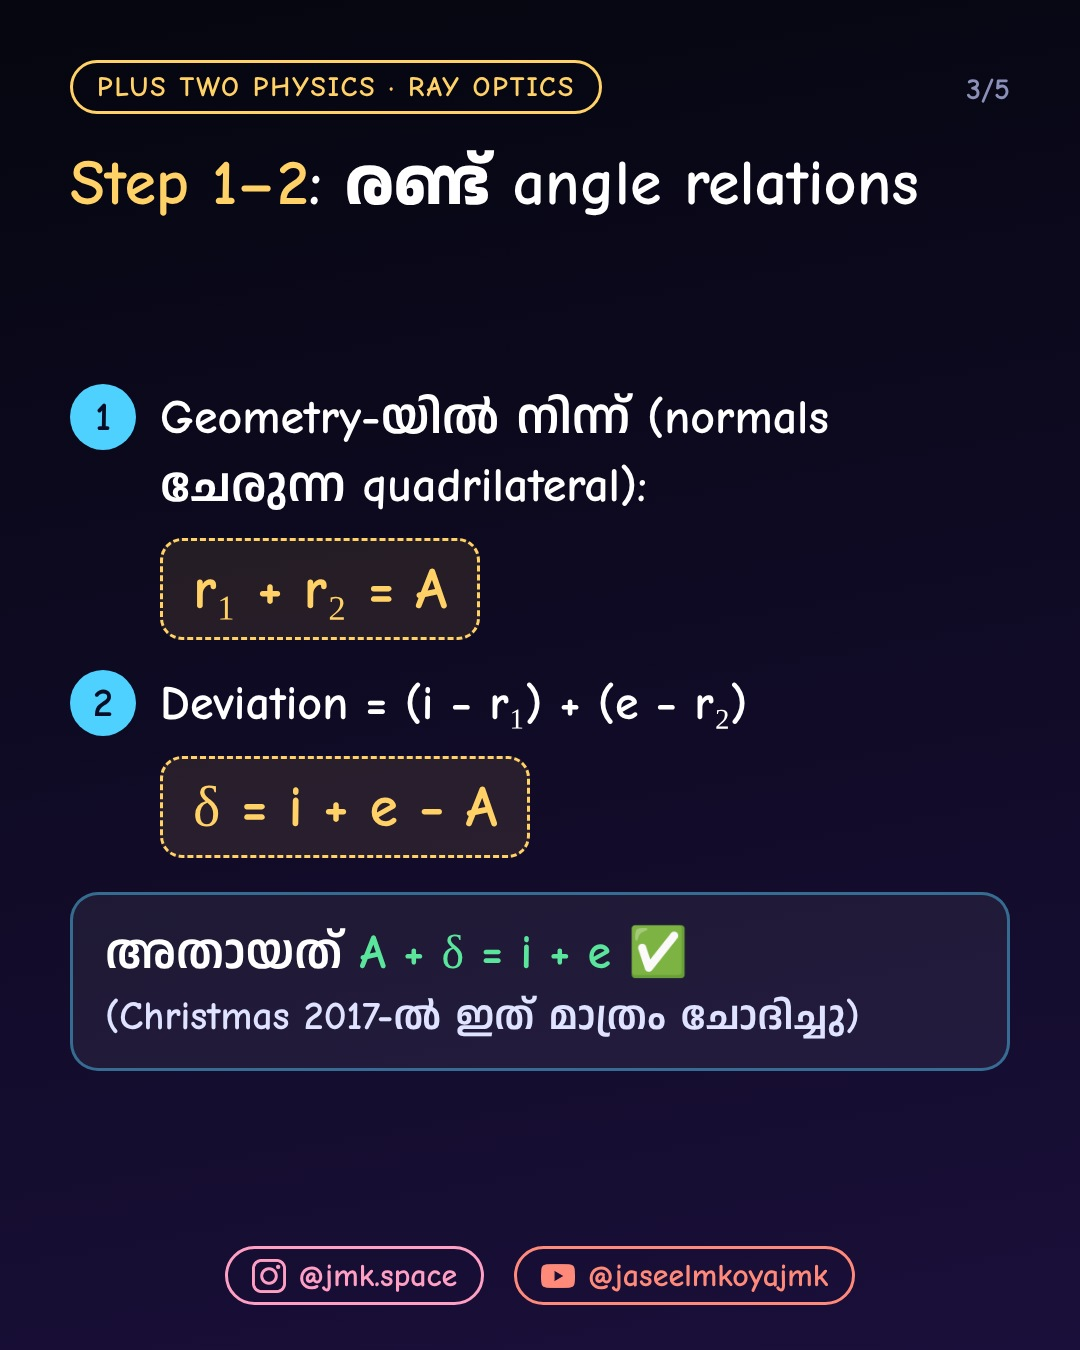
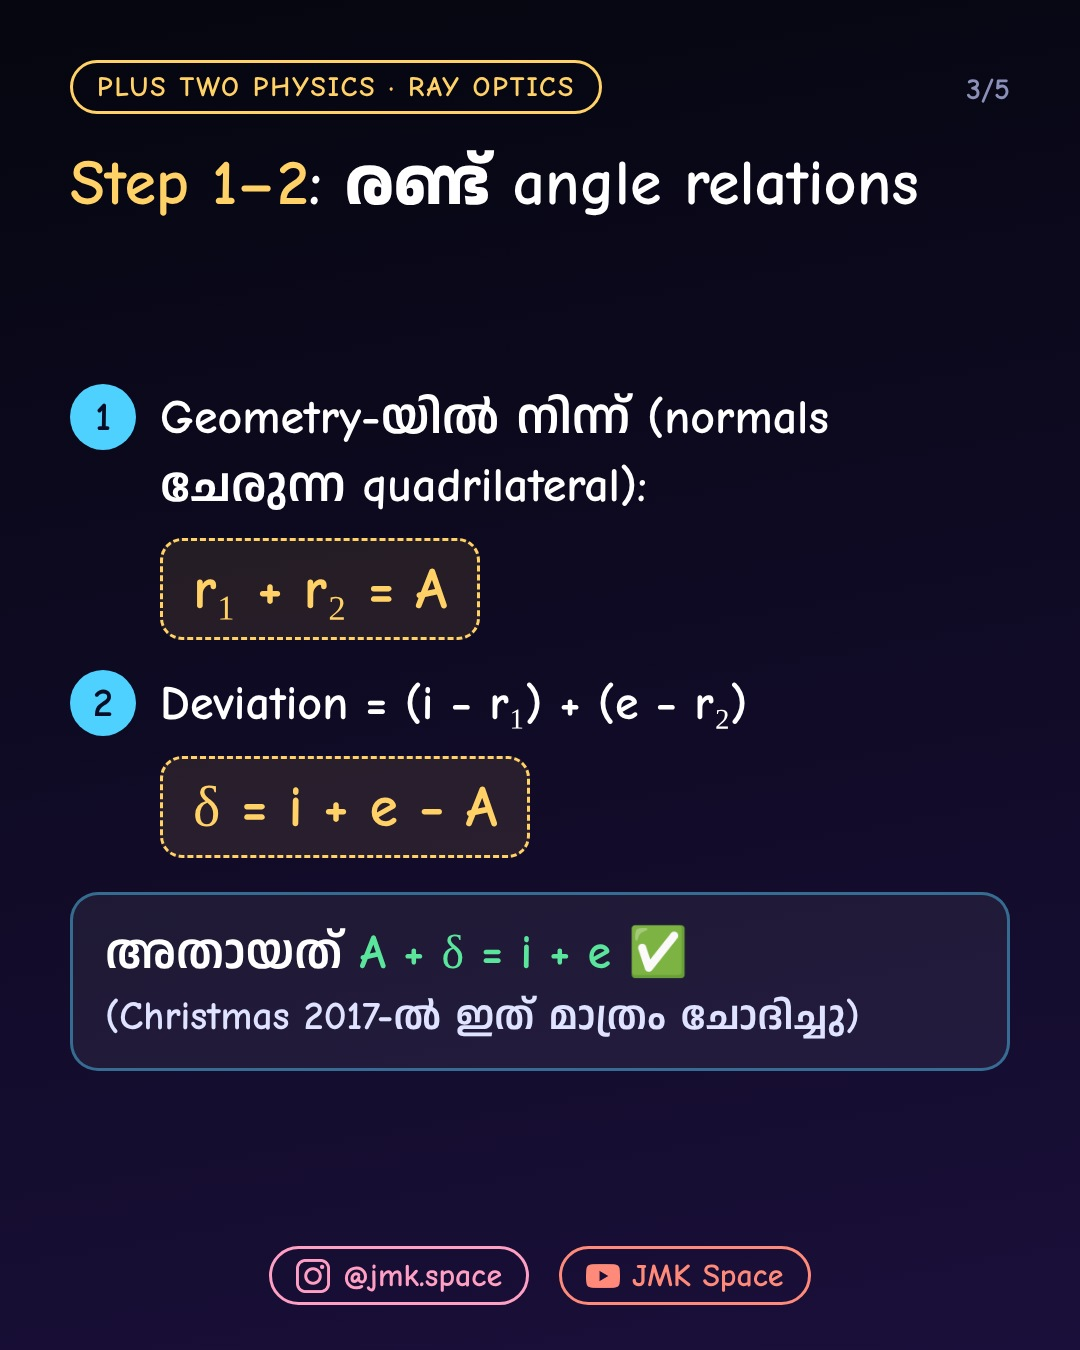
25 Nov post: JMK Space footer, rescheduled

Changed region(s): [[0.2139, 0.9022, 0.7944, 0.9644]]

diff --git a/work/posts/2026-11-25/build.py b/work/posts/2026-11-25/build.py
@@ -34,7 +34,7 @@ h2{font-family:Comic,AnekX;font-size:64px;line-height:1.3;margin-top:28px}
 .ig{color:#ff9fc4}.yt{color:#ff8a7a}
 """
 FOOT = """<div class="brand"><span class="ig"><i class="ico" style="-webkit-mask-image:url(icons/instagram-white.png)"></i>@jmk.space</span>
-<span class="yt"><i class="ico" style="-webkit-mask-image:url(icons/youtube-white.png)"></i>@jaseelmkoyajmk</span></div>"""
+<span class="yt"><i class="ico" style="-webkit-mask-image:url(icons/youtube-white.png)"></i>JMK Space</span></div>"""
 
 TAG = '<div class="tag">PLUS TWO PHYSICS · RAY OPTICS</div>'
 PYQ = '<div class="pyq">PYQ · Plus Two Christmas Exam 2019 · Q24 (4 marks)</div>'

diff --git a/work/posts/2026-11-25/STATUS.md b/work/posts/2026-11-25/STATUS.md
@@ -1,7 +1,7 @@
 # 2026-11-25 (Wed) · PYQ CAROUSEL — Prism refractive index derivation (Plus Two · Ray Optics)
 SCHEDULED
-- Feed (5-slide carousel) 25 Nov 20:30 IST: post_40d40bc423fef212 (med_21bb16eb8b0b4f02, med_cfdc4dc6bd737b90, med_be3f89848e225b3e, med_1ed046440e4f6fa7, med_65668708ef080e0a)
-- Story B (recap of the derivation) 26 Nov 07:30 IST: post_d1b3a00f70176308 (med_f214c06e95ac8acf)
+- Feed (5-slide carousel) 25 Nov 20:30 IST: post_999e6fda70cf32ad (med_8e6105671c275b34, med_31eaafe8a04317f5, med_af345573c708c607, med_19c54c3b59039a60, med_7bf6ee8cb3ea6910)
+- Story B (recap of the derivation) 26 Nov 07:30 IST: post_2a71eff5f7f6e9e3 (med_67f4534d4c10ace7)
 - No reel/video mention anywhere. Last 14 days: EMI, black hole, projectile, work-energy → no repeat.
 - Christmas season: Monday 23 Nov quiz was Plus One → this Wednesday PYQ is Plus Two (no earlier Wed PYQ post on record).
 - Rebuild: copy tools/fonts (Anek Bold/ExtraBold/SemiBold, comic-neue 700) here, run build.py (renders to out/).
@@ -16,3 +16,9 @@ SCHEDULED
 - JMK: emergent ray was drawn going upward (wrong) — it must bend down towards the base. Fixed in build.py (emergent direction +18.6° below horizontal, true geometry), added the backward extension of the emergent ray meeting the incident extension, δ marked between them. Slides 1, 2 and Story B re-rendered.
 - Old scheduled posts post_57f6f92a326ffa14 and post_ad955f616fad395c deleted; new ones scheduled at the same times (ids above).
 - Lesson: in every prism diagram, check the emergent ray bends towards the base (deviation towards the base).
+## Fix 2 (JMK, 25 Nov)
+- Footer YouTube name changed from "@jaseelmkoyajmk" to "JMK Space" on all 6 images (JMK: YouTube name is JMK Space, never Jaseel M Koya).
+- Posts post_40d40bc423fef212 / post_d1b3a00f70176308 deleted; rescheduled as above at the same times.
+- Full re-check of all 6 final images: ray diagram (incident from below, bends towards normal inside, parallel to base, emergent bends away from normal towards the base, δ between incident extension and emergent back-extension, i/r₁/r₂/e measured from normals), every formula, label, year chip, Malayalam text and footer.
+- Daily post task prompt updated: "JMK Space" everywhere, zero-mistake rule (JMK doesn't review before posting) and a DIAGRAM CHECK.
+- Note: tools/endcard.py (reel tooling) still contains "jaseelmkoyajmk" — not changed here (reel task's area).
